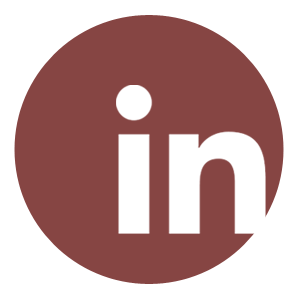
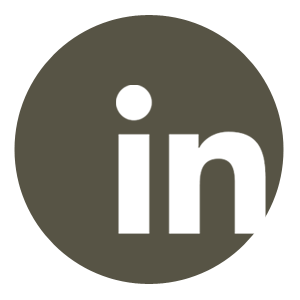
making it bigger

diff --git a/source/stylesheets/_common.sass b/source/stylesheets/_common.sass
@@ -5,6 +5,7 @@ body, ul, ol, li, h1, h2, h3, h4, p
 body
   font-family: 'Lucida Grande', Helvetica, Arial, sans-serif
   color: $darkest
+  background-color: #FAF9E4
   margin: 0 auto 40px
   font-size: 14px
   // width: 320px
@@ -38,7 +39,7 @@ h2
   
 .container, .blog, .recent
   position: relative
-  background: #fff
+  // background: #fff
   z-index: 10
   overflow: hidden
 
@@ -61,7 +62,7 @@ h2
   clear: both
   margin: 0 6% 40px
   h1, p
-    color: $darker
+    color: #912C22
     font-family: 'Open Sans Condensed', sans-serif
     // font-family: 'Bad Script', cursive
     // font-family: 'Rock Salt', cursive
@@ -75,9 +76,8 @@ h2
 .featured
   position: relative
   overflow: hidden
-  background-color: rgba($mid, 1)
-  color: #fff
-  // background-size: 45% auto
+  background-color: rgba(#A19C7F, 0.4)
+  color: #575445
   .inner
     padding: 15px 0 0
   h2
@@ -88,7 +88,7 @@ h2
   h3
     font-family: 'Open Sans Condensed', sans-serif
     font-weight: 300
-    background: $darker
+    background: rgba(#575445, 0.7)
     color: #fff
     display: inline-block
     padding: 0 0 2px 1%
@@ -100,7 +100,7 @@ h2
     &:after
       border-top: 13px solid transparent
       border-bottom: 13px solid transparent
-      border-left: 13px solid $darker
+      border-left: 13px solid rgba(#575445, 0.7)
       position: absolute
       right: -13px
       top: 0
@@ -119,7 +119,7 @@ h2
       font-size: 0.8rem
       // font-weight: bold
       padding-bottom: 5px
-      color: #fff
+      color: #575445
   img
     position: absolute
     top: 20px
@@ -174,7 +174,7 @@ h2
   h3
     font-family: 'Open Sans Condensed', sans-serif
     font-weight: 300
-    background: $dark
+    background: rgba(#575445, 0.7)
     color: #fff
     display: inline-block
     padding: 0 0 2px 1%
@@ -188,7 +188,7 @@ h2
     &:after
       border-top: 13px solid transparent
       border-bottom: 13px solid transparent
-      border-left: 13px solid $dark
+      border-left: 13px solid rgba(#575445, 0.7)
       position: absolute
       right: -13px
       top: 0
@@ -206,7 +206,7 @@ h2
     overflow: hidden
   img
     max-width: 93.5%
-    border: 1px solid $dark
+    border: 1px solid rgba(#575445, 0.7)
     vertical-align: bottom
     margin-top: 1px
     

diff --git a/source/stylesheets/all.css.sass b/source/stylesheets/all.css.sass
@@ -1,5 +1,5 @@
 $darkest: #2C2825
-$darker: #643331
+$darker: #912C22//#643331
 $dark: #864543
 $mid: #AE4B46
 $light: #A19C7F
@@ -34,7 +34,7 @@ $lightest: #E2C59D
     margin-left: 4%
 
   .social
-    top: 5px
+    // top: 5px
     right: 5px
     border-radius: 0
     background-color: transparent
@@ -96,11 +96,15 @@ $lightest: #E2C59D
     font-size: 2rem
 
   .intro
-    h1, p
-      font-size: 2rem
+    h1
+      font-size: 3.5rem
+      line-height: 2
+    p
+      font-size: 2.8rem
+      line-height: 1.1
 
   .social
-    top: 10px
+    top: -20px
     right: 5px
     li
       img
@@ -134,12 +138,12 @@ $lightest: #E2C59D
     margin-left: 4%
     img
       max-width: 90%
-      margin: 0
+      margin: 40px 0 0
 
   .intro
     clear: none
     float: right
-    margin: 65px 5% 60px 0
+    margin: 75px 5% 60px 0
     max-width: 440px
 
   .featured
@@ -193,8 +197,9 @@ $lightest: #E2C59D
     padding-top: 60px
 
   .intro
-    margin-right: 12%
+    margin-right: 5%
     margin-bottom: 90px
+    max-width: 510px
     
   .featured
     .inner
@@ -202,15 +207,15 @@ $lightest: #E2C59D
     h3, p, h2
       width: 38%
     img
-      right: -110px
-      width: 65%
-      top: auto
-      bottom: 0
+      // right: -110px
+      // width: 65%
+      // top: auto
+      // bottom: 0
 
-      &.tablet
-        display: none
-      &.desktop
-        display: inline
+      // &.tablet
+      //   display: none
+      // &.desktop
+      //   display: inline
   
   .blog
     margin-bottom: 20px
